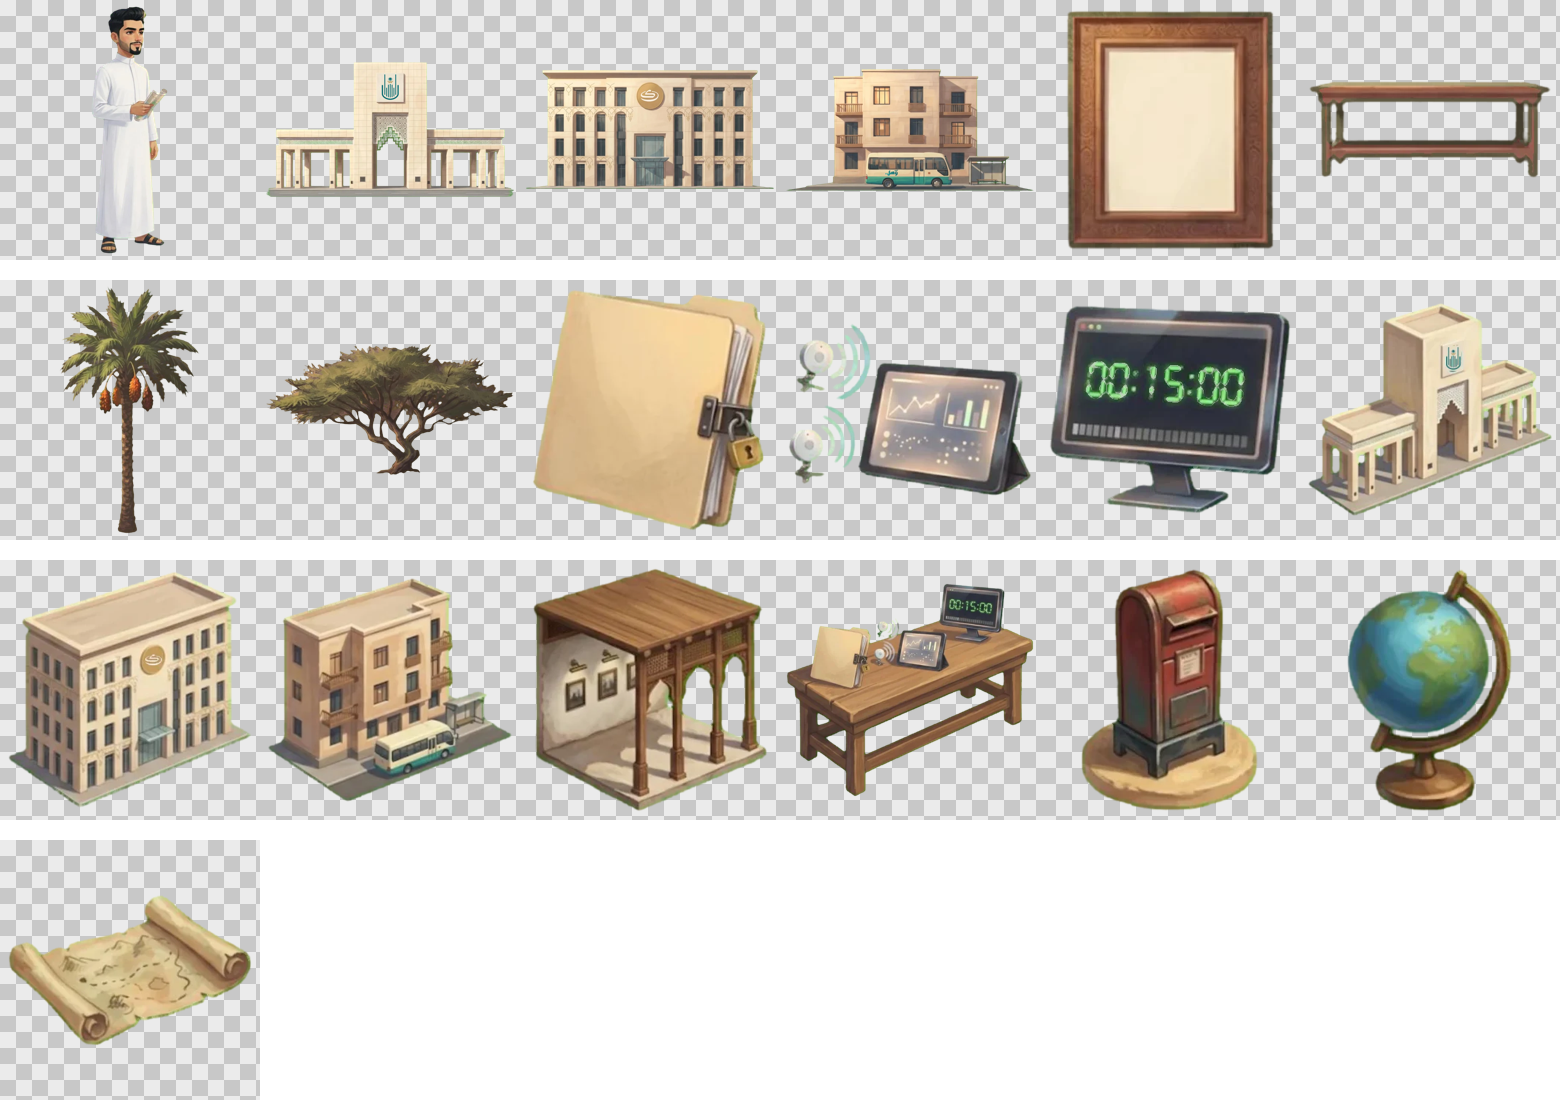
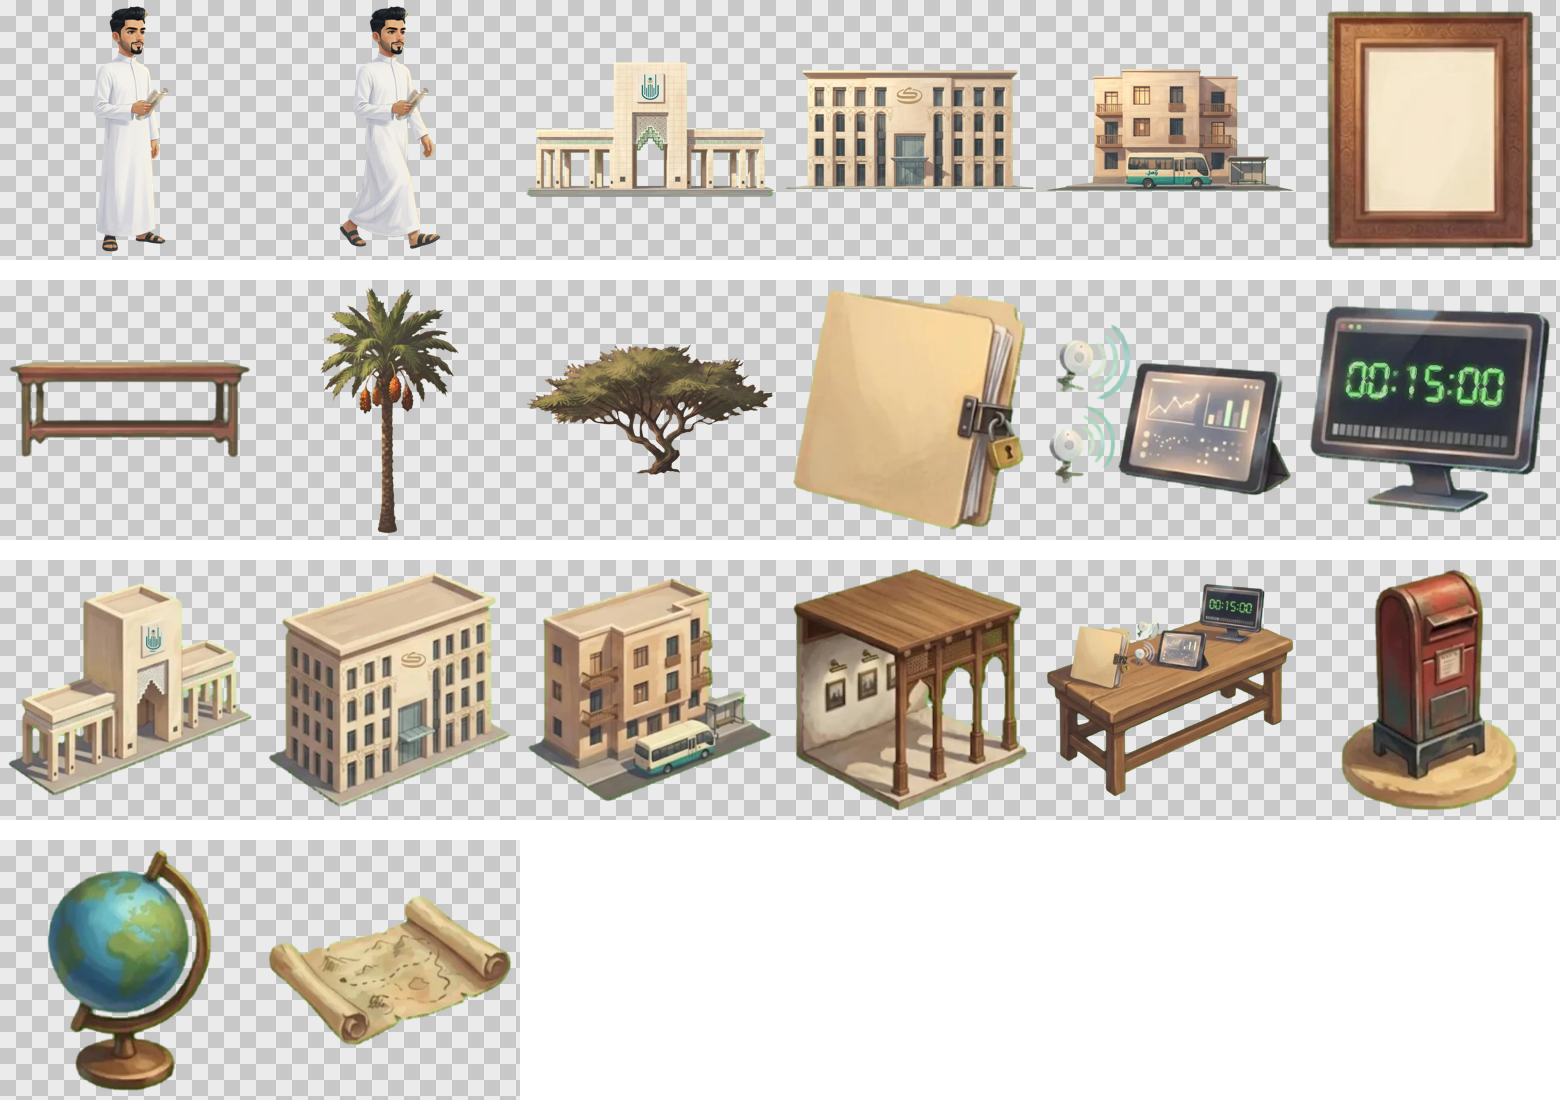
Arabic layout on the left, clearer fonts, smooth text transitions, natural walk

diff --git a/index.html b/index.html
@@ -23,11 +23,11 @@
 <link rel="icon" href="assets/ic_map.webp">
 <link rel="preconnect" href="https://fonts.googleapis.com">
 <link rel="preconnect" href="https://fonts.gstatic.com" crossorigin>
-<link href="https://fonts.googleapis.com/css2?family=Fraunces:ital,opsz,wght@0,9..144,500;0,9..144,800;1,9..144,500&family=IBM+Plex+Mono:wght@400;600&family=IBM+Plex+Sans+Arabic:wght@500;700&display=swap" rel="stylesheet">
+<link href="https://fonts.googleapis.com/css2?family=Fraunces:ital,opsz,wght@0,9..144,500;0,9..144,800;1,9..144,500&family=Inter:wght@400;500;600;700&family=Readex+Pro:wght@400;500;600;700&display=swap" rel="stylesheet">
 <style>
-:root{--ink:#22160b;--gold:#ffd98a;--paper:#f6ecd8;--accent:#c2416b;--serif:"Fraunces",Georgia,serif;--mono:"IBM Plex Mono",ui-monospace,monospace;--ar:"IBM Plex Sans Arabic",system-ui,sans-serif}
+:root{--ink:#22160b;--gold:#ffd98a;--paper:#f6ecd8;--accent:#c2416b;--serif:"Fraunces",Georgia,serif;--sans:"Inter",system-ui,-apple-system,"Segoe UI",sans-serif;--mono:var(--sans);--ar:"Readex Pro","Segoe UI",Tahoma,sans-serif}
 *{box-sizing:border-box;margin:0;padding:0}
-html,body{height:100%;overflow:hidden;background:#e9d7b0;color:var(--ink);font-family:var(--mono);-webkit-font-smoothing:antialiased}
+html,body{height:100%;overflow:hidden;background:#e9d7b0;color:var(--ink);font-family:var(--sans);-webkit-font-smoothing:antialiased}
 body.ar{font-family:var(--ar)}
 button{font:inherit;color:inherit;background:none;border:0;cursor:pointer}
 img{user-select:none;-webkit-user-drag:none}
@@ -59,43 +59,44 @@ body.ar .frame .t,body.ar .frame .s{font-family:var(--ar)}
 .tool .nm{position:absolute;left:50%;top:100%;transform:translate(-50%,8px);white-space:nowrap;font-size:12px;font-weight:600;color:#ffe7b5;background:rgba(30,20,10,.72);padding:3px 8px;border-radius:999px}
 
 #me{position:absolute;z-index:4;bottom:4%;left:0;transform-origin:50% 100%;will-change:transform,left;pointer-events:none}
-#me img{display:block;height:100%;transform-origin:50% 100%}
+#me img{position:absolute;left:0;bottom:0;display:block;height:100%;width:100%;transform-origin:50% 100%;transform:translateY(var(--bob,0)) rotate(var(--rot,0)) scaleX(var(--dir,1))}
 #shadow{position:absolute;left:50%;bottom:-2%;width:70%;height:6%;background:radial-gradient(ellipse,rgba(40,20,0,.38),transparent 70%);transform:translateX(-50%)}
 
 #hero{position:absolute;z-index:5;left:6vw;top:18vh;max-width:min(560px,60vw);pointer-events:none}
 #hero h1{font-family:var(--serif);font-weight:800;font-size:clamp(56px,11vw,150px);line-height:.85;letter-spacing:-.02em;color:#fffaf0;text-shadow:0 4px 30px rgba(80,50,10,.35)}
-#hero h1 .sur{display:block;font-family:var(--mono);font-weight:600;font-size:clamp(13px,1.5vw,18px);letter-spacing:.6em;margin-top:18px;color:var(--ink);text-shadow:0 0 10px rgba(255,250,236,.9)}
-body.ar #hero h1{font-family:var(--ar);letter-spacing:0}
-body.ar #hero h1 .sur{font-family:var(--ar);letter-spacing:.2em}
-#hero p{margin-top:16px;font-size:clamp(14px,1.4vw,18px);color:var(--ink);font-weight:600;text-shadow:0 0 12px rgba(255,250,236,.95),0 0 3px rgba(255,250,236,.9)}
-#hero p::before{content:"> ";color:var(--accent)}
-body.ar #hero{left:auto;right:6vw;text-align:right}
-body.ar #hero p::before{content:"< "}
+#hero h1 .sur{display:block;font-family:var(--sans);font-weight:700;font-size:clamp(13px,1.5vw,18px);letter-spacing:.55em;margin-top:18px;color:var(--ink);text-shadow:0 0 10px rgba(255,250,236,.9)}
+#hero p{margin-top:16px;font-family:var(--sans);font-size:clamp(15px,1.45vw,19px);line-height:1.5;color:var(--ink);font-weight:600;text-shadow:0 0 14px rgba(255,250,236,1),0 0 4px rgba(255,250,236,.95)}
+#hero p::before{content:"";display:inline-block;width:.5em;height:.5em;border-radius:50%;background:var(--accent);margin-inline-end:.55em;vertical-align:.08em}
+body.ar #hero{direction:rtl;text-align:right}
+body.ar #hero h1{font-family:var(--ar);font-weight:800;letter-spacing:0;line-height:1.05}
+body.ar #hero h1 .sur{font-family:var(--ar);letter-spacing:.12em}
+body.ar #hero p{font-family:var(--ar);font-weight:600;line-height:1.75}
 
-#head{position:absolute;z-index:5;left:6vw;top:12vh;max-width:min(680px,88vw);pointer-events:none;color:var(--ink)}
-#head .w{display:block;font-family:var(--serif);font-weight:500;font-size:clamp(34px,5.4vw,78px);line-height:1.02;letter-spacing:-.01em;opacity:0;transform:translateY(18px);animation:up .7s cubic-bezier(.2,.8,.2,1) forwards}
+#head{position:absolute;z-index:5;left:6vw;top:12vh;max-width:min(680px,88vw);pointer-events:none;color:var(--ink);transition:opacity .32s ease,filter .32s ease,transform .32s ease}
+#head .w{display:block;font-family:var(--serif);font-weight:500;font-size:clamp(34px,5.4vw,78px);line-height:1.04;letter-spacing:-.01em;opacity:0;animation:rise .8s cubic-bezier(.16,.84,.24,1) forwards}
 #head .w i,#head .w em{font-style:italic;color:var(--accent)}
 #head.sm{top:9vh}
 #head.sm .w{font-size:clamp(26px,3.4vw,50px)}
-#head .sub{font-family:var(--mono);font-size:clamp(13px,1.2vw,16px);margin-top:14px;opacity:0}
-body.ar #head .w{font-family:var(--ar);font-weight:700;letter-spacing:0;line-height:1.25}
+#head .sub{font-family:var(--sans);font-weight:500;font-size:clamp(14px,1.2vw,16px);margin-top:14px;opacity:0;animation:rise .7s cubic-bezier(.16,.84,.24,1) .45s forwards}
+body.ar #head{direction:rtl;text-align:right}
+body.ar #head .w{font-family:var(--ar);font-weight:700;letter-spacing:0;line-height:1.3}
 body.ar #head .w em{font-style:normal}
-body.ar #head.sm{top:9vh}
-#head.sm .w{font-size:clamp(26px,3.4vw,50px)}
-#head .sub{font-family:var(--ar)}
+body.ar #head .sub{font-family:var(--ar)}
 .icons{display:flex;flex-wrap:wrap;gap:10px;margin-top:26px;pointer-events:auto}
-.ic{display:inline-flex;align-items:center;gap:9px;padding:10px 16px;border-radius:999px;background:rgba(24,16,44,.55);border:1px solid rgba(255,217,138,.45);color:var(--gold);text-decoration:none;font-size:14px;opacity:0;animation:up .6s forwards;backdrop-filter:blur(4px)}
+.ic{display:inline-flex;align-items:center;gap:9px;padding:10px 16px;border-radius:999px;background:rgba(24,16,44,.55);border:1px solid rgba(255,217,138,.45);color:var(--gold);text-decoration:none;font-family:var(--sans);font-weight:600;font-size:14px;opacity:0;animation:rise .6s cubic-bezier(.16,.84,.24,1) forwards;backdrop-filter:blur(4px)}
+body.ar .ic{font-family:var(--ar)}
 .ic:hover{background:rgba(255,217,138,.2)}
 .ic svg{width:17px;height:17px;fill:currentColor}
 
-#cap{position:absolute;z-index:5;pointer-events:none;font-size:clamp(12.5px,1.15vw,15px);line-height:1.55}
-#cap .ln{opacity:0;animation:up .6s forwards}
-#cap .ln::before{content:"> ";color:var(--accent)}
-#cap .lh{font-weight:600;margin-bottom:6px;opacity:0;animation:up .6s forwards}
-body.ar #cap{direction:rtl}
-body.ar #cap .ln::before{content:"< "}
-#cap .by{opacity:0;animation:up .6s forwards;font-size:12px;letter-spacing:.08em}
-@keyframes up{to{opacity:1;transform:none}}
+#cap{position:absolute;z-index:5;pointer-events:none;font-family:var(--sans);font-weight:500;font-size:clamp(14px,1.2vw,16.5px);line-height:1.6;padding:12px 16px;border-radius:14px;background:var(--capbg,rgba(255,248,232,.72));-webkit-backdrop-filter:blur(6px);backdrop-filter:blur(6px);transition:opacity .32s ease,filter .32s ease,transform .32s ease,background .6s}
+#cap:empty{display:none}
+#cap .ln{opacity:0;animation:rise .6s cubic-bezier(.16,.84,.24,1) forwards;padding-inline-start:1.1em;position:relative}
+#cap .ln::before{content:"";position:absolute;inset-inline-start:0;top:.62em;width:.42em;height:.42em;border-radius:50%;background:var(--accent)}
+#cap .lh{font-weight:700;margin-bottom:6px;opacity:0;animation:rise .6s cubic-bezier(.16,.84,.24,1) forwards}
+body.ar #cap{direction:rtl;font-family:var(--ar);line-height:1.8}
+#cap .by{opacity:0;animation:rise .6s forwards;font-size:12.5px;letter-spacing:.04em}
+#head.out,#cap.out{opacity:0;filter:blur(6px);transform:translateY(-10px)}
+@keyframes rise{from{opacity:0;transform:translateY(16px);filter:blur(8px)}to{opacity:1;transform:none;filter:blur(0)}}
 
 #bar{position:absolute;z-index:8;left:16px;top:14px;display:flex;gap:6px}
 #bar button{display:flex;align-items:center;gap:6px;padding:6px 10px 6px 6px;border-radius:999px;font-weight:600;font-size:14px;color:#fffaf0;text-shadow:0 1px 6px rgba(0,0,0,.4);transition:transform .2s}
@@ -143,6 +144,7 @@ body.ar #card h3{font-family:var(--ar);padding-right:0;padding-left:40px}
 body.ar #card .x{right:auto;left:16px}
 body.ar #card{direction:rtl}
 
+@media (min-width:700px){#head .w{white-space:nowrap}}
 @media (max-width:699px){
   #hero{top:13vh;max-width:70vw}
   #head{top:9vh}
@@ -162,7 +164,7 @@ body.ar #card{direction:rtl}
   <div class="sky" id="sk2" style="opacity:0"></div>
   <div id="floor"></div>
   <div id="world"></div>
-  <div id="me"><div id="shadow"></div><img id="meimg" src="assets/me.webp" alt="Faris"></div>
+  <div id="me"><div id="shadow"></div><img id="meimg" src="assets/me.webp" alt="Faris"><img id="mewalk" src="assets/me_walk.webp" alt="" style="opacity:0"></div>
   <div id="hero"><h1 id="h1"></h1><p id="t1"></p><p id="t2"></p></div>
   <div id="head"></div>
   <div id="cap"></div>
@@ -263,7 +265,7 @@ var DATA={
 
 /* ============================================================ */
 var $=function(i){return document.getElementById(i)};
-var IMGS=["sky-day","sky-sunset","sky-night","floor","me","uqu","kidana","wasl","palm","acacia","wall","frame","table","p_securefile","p_washroom","p_meeting","map","m_uqu","m_kidana","m_wasl","m_gallery","m_bench","m_mail","ic_globe","ic_map"];
+var IMGS=["me_walk","sky-day","sky-sunset","sky-night","floor","me","uqu","kidana","wasl","palm","acacia","wall","frame","table","p_securefile","p_washroom","p_meeting","map","m_uqu","m_kidana","m_wasl","m_gallery","m_bench","m_mail","ic_globe","ic_map"];
 var R={};
 var lang="en";try{lang=localStorage.getItem("fa_lang")||"en"}catch(e){}
 var hm=(location.hash||"").match(/lang=(en|ar)/);if(hm)lang=hm[1];
@@ -274,7 +276,7 @@ var ICON={
  code:'<svg viewBox="0 0 24 24"><path d="M8.7 16.3 4.4 12l4.3-4.3-1.4-1.4L1.6 12l5.7 5.7 1.4-1.4zm6.6 0 4.3-4.3-4.3-4.3 1.4-1.4 5.7 5.7-5.7 5.7-1.4-1.4z"/></svg>'
 };
 
-var stage=$("stage"),world=$("world"),me=$("me"),meimg=$("meimg");
+var stage=$("stage"),world=$("world"),me=$("me"),meimg=$("meimg"),mewalk=$("mewalk"),lastPos=0,walkP=0,idleT=0;
 var W,H,mob,gx,gh,heroX,heroK,pos=0,target=0,lastT=0,els=[],maxP=1,cur="",nightV=-1,toolEls=[],frameEls=[];
 var STOPS=DATA.stops;
 
@@ -364,25 +366,34 @@ function blend(p){
 }
 function zoneAt(p){var best=null,bd=1e9;STOPS.forEach(function(s){var d=Math.abs(p-s.p);if(d<s.r&&d<bd){bd=d;best=s}});return best}
 
+var txTimer=0,txHas=false;
 function setText(z,pg){
   var key=z?z.id+lang+pg:"none"+lang;if(key===cur)return;cur=key;
+  var h=$("head"),c=$("cap");
+  clearTimeout(txTimer);
+  if(txHas){h.classList.add("out");c.classList.add("out");txTimer=setTimeout(function(){fillZone(z,pg)},300)}
+  else fillZone(z,pg);
+}
+function fillZone(z,pg){
   var h=$("head"),c=$("cap");h.innerHTML="";c.innerHTML="";
+  h.classList.remove("out");c.classList.remove("out");
   h.classList.toggle("sm",!!(z&&(z.type=="wall"||z.type=="bench")));
+  txHas=!!z;
   if(!z)return;
   var T=DATA.ui[lang];
-  ((pg&&z.hl2)?z.hl2:z.hl)[lang].forEach(function(t,i){var s=mk("span","w",h);s.style.animationDelay=(i*.15)+"s";s.innerHTML=t});
-  if(z.sub){var sb=mk("div","sub",h);sb.textContent=z.sub[lang];sb.style.animation="up .6s .45s forwards"}
+  ((pg&&z.hl2)?z.hl2:z.hl)[lang].forEach(function(t,i){var s=mk("span","w",h);s.style.animationDelay=(i*.12)+"s";s.innerHTML=t});
+  if(z.sub){var sb=mk("div","sub",h);sb.textContent=z.sub[lang]}
   if(z.type=="end"){
     var C=DATA.contact,ic=mk("div","icons",h);
     [["mailto:"+C.email,ICON.mail,T.email],["tel:"+C.phone,ICON.phone,C.phoneLabel],[C.linkedin,ICON.li,"LinkedIn"],[C.github,ICON.code,"GitHub"]].forEach(function(a,k){
       var e=mk("a","ic",ic);e.href=a[0];if(a[0].indexOf("http")==0){e.target="_blank";e.rel="noopener"}
-      e.style.animationDelay=(.6+k*.12)+"s";e.innerHTML=a[1]+"<span></span>";e.lastChild.textContent=a[2];if(a[2]==C.phoneLabel)e.lastChild.dir="ltr";
+      e.style.animationDelay=(.5+k*.1)+"s";e.innerHTML=a[1]+"<span></span>";e.lastChild.textContent=a[2];if(a[2]==C.phoneLabel)e.lastChild.dir="ltr";
     });
-    var by=mk("div","by",c);by.textContent=T.by;by.style.animationDelay="1.1s";
+    var by=mk("div","by",c);by.textContent=T.by;by.style.animationDelay="1s";
   }else{
-    if(z.lnh){var lh=mk("div","lh",c);lh.textContent=z.lnh[lang];lh.style.animationDelay=".4s"}
+    if(z.lnh){var lh=mk("div","lh",c);lh.textContent=z.lnh[lang];lh.style.animationDelay=".35s"}
     var L=z.ln[lang][Math.min(pg,z.ln[lang].length-1)]||[];
-    L.forEach(function(t,i){var d=mk("div","ln",c);d.style.animationDelay=(.5+i*.18)+"s";d.textContent=t});
+    L.forEach(function(t,i){var d=mk("div","ln",c);d.style.animationDelay=(.4+i*.14)+"s";d.textContent=t});
   }
   layoutCap(z);
 }
@@ -390,7 +401,7 @@ function layoutCap(z){
   var c=$("cap").style,h=$("head");c.left=c.right=c.top=c.bottom="";c.maxWidth="";c.textAlign="";
   var ar=lang=="ar";
   if(!z)return;
-  if(z.type=="end"){c.left=ar?"":"6vw";c.right=ar?"6vw":"";c.bottom="3vh";return}
+  if(z.type=="end"){c.left="6vw";c.bottom="3vh";return}
   if(mob||z.type=="wall"){
     c.left="6vw";c.right="6vw";c.top=(h.offsetTop+h.offsetHeight+14)+"px";return;
   }
@@ -414,10 +425,11 @@ function update(t){
   var n=b.A.night*(1-b.t)+b.B.night*b.t;
   if(Math.abs(n-nightV)>.01){nightV=n;
     els.forEach(function(it){if(it.dim)it.dim.style.opacity=.42*n;if(it.lit)it.lit.style.opacity=.55*n});
-    meimg.style.filter="brightness("+(1-.18*n)+")";
+    meimg.style.filter=mewalk.style.filter="brightness("+(1-.18*n)+")";
     var ink=mix("#22160b","#ffd98a",ease((n-.3)/.5));$("head").style.color=ink;$("cap").style.color=ink;$("hint").style.color=ink;
     var glow=n>.5?"0 0 18px rgba(255,180,80,.45), 0 1px 3px rgba(0,0,0,.6)":"0 0 14px rgba(255,248,230,.95), 0 0 4px rgba(255,248,230,.9)";
-    $("cap").style.textShadow=glow;$("head").style.textShadow=n>.5?"0 0 26px rgba(255,180,80,.4)":"0 0 18px rgba(255,250,235,.8)";
+    $("cap").style.textShadow=n>.5?"none":"0 0 8px rgba(255,250,236,.6)";
+    $("cap").style.setProperty("--capbg",n>.5?"rgba(18,14,38,.58)":"rgba(255,248,232,.74)");$("head").style.textShadow=n>.5?"0 0 26px rgba(255,180,80,.4)":"0 0 18px rgba(255,250,235,.8)";
   }
   // intro → walk → end
   var e=ease(pos/(W*.7));
@@ -429,14 +441,20 @@ function update(t){
   var eE=ease((pos-(maxP-W*.6))/(W*.55));
   var inside=STOPS.filter(function(s){return s.type=="wall"||s.type=="bench"}),ins=0;
   if(inside.length){var a=inside[0],bb=inside[inside.length-1];ins=ease((pos-(a.p-W*.45))/(W*.35))*ease((bb.p+W*.5-pos)/(W*.35))}
-  var hx=lang=="ar"?W*(mob?.3:.28):heroX,gxB=hx+(gx-hx)*e,endX=mob?W*.74:W*.68,x=gxB+(endX-gxB)*eE;
+  var hx=heroX,gxB=hx+(gx-hx)*e,endX=mob?W*.74:W*.68,x=gxB+(endX-gxB)*eE;
   var k=(heroK+(1-heroK)*e)*(1+.22*eE)*(1-.08*ins);
   me.style.left=x+"px";
-  var ph=t/1000*(moving?11:1.6),by=moving?-Math.abs(Math.sin(ph))*gh*.022:Math.sin(ph)*gh*.003,rot=moving?Math.sin(ph)*1.5:0;
+  // natural two-frame walk, driven by distance travelled so the feet don't slide
+  var stepLen=gh*.34*k,moved=Math.abs(pos-lastPos);lastPos=pos;
+  if(moving){walkP+=moved/stepLen;idleT=0}else{idleT+=dt}
+  var fr=walkP%1,striding=moving&&fr<.5,by,rot;
+  if(moving){by=-gh*.012*(.5-.5*Math.cos(2*Math.PI*fr));rot=.8}
+  else{by=Math.sin(t/1000*1.6)*gh*.002;rot=0;walkP=0}
+  meimg.style.opacity=striding?0:1;mewalk.style.opacity=striding?1:0;
   var dir=target<pos-.5?-1:1;if(!moving)dir=+(me.dataset.dir||1);me.dataset.dir=dir;
-  meimg.style.transform="translateY("+by+"px) rotate("+rot+"deg) scaleX("+dir+")";
+  me.style.setProperty("--bob",by+"px");me.style.setProperty("--rot",(rot*dir)+"deg");me.style.setProperty("--dir",dir);
   me.style.transform="translateX(-50%) scale("+k+")";
-  $("shadow").style.transform="translateX(-50%) scaleX("+(1-(moving?Math.abs(Math.sin(ph))*.12:0))+")";
+  $("shadow").style.transform="translateX(-50%) scaleX("+(striding?1.08:1)+")";
   $("hint").style.opacity=pos>60?0:.85;
 }
 

diff --git a/tools/process_assets.py b/tools/process_assets.py
@@ -26,7 +26,7 @@ def keyness(a, key):
     return np.minimum(r, b) - g  # magenta
 
 
-def chroma(img, key, fill=False, fill_max=0.0015):
+def chroma(img, key, fill=False, fill_max=0.0015, nogreen=False):
     """Key out a flat green/magenta background.
 
     Matte from 'key-ness', then every edge pixel takes the colour of the
@@ -75,7 +75,7 @@ def chroma(img, key, fill=False, fill_max=0.0015):
     # light global despill for any key tint that is left inside
     r, g, b = F[..., 0], F[..., 1], F[..., 2]
     if key == "green":
-        F[..., 1] = np.minimum(g, np.maximum(r, b) + 40)
+        F[..., 1] = np.minimum(g, np.maximum(r, b) + (0 if nogreen else 40))
     elif key == "blue":
         near = ndimage.binary_dilation(alpha < 0.9, iterations=4) | (b > g)
         F[..., 2] = np.where(near, np.minimum(b, g * 0.7), np.minimum(b, np.maximum(r, g) + 20))
@@ -155,7 +155,7 @@ def save(im, name, q=84, maxside=None):
 
 
 def kidana_logo(b):
-    """Find the blank gold plaque and stamp the real KIDANA icon on it."""
+    """Remove the blank gold plaque and paint the real KIDANA icon straight on the facade."""
     if not LOGO or not LOGO.exists():
         return b
     a = np.asarray(b).astype(np.float32)
@@ -167,30 +167,33 @@ def kidana_logo(b):
         print("  ! plaque not found")
         return b
     sizes = ndimage.sum(gold, lab, range(1, n + 1))
-    sl = ndimage.find_objects(lab)[int(np.argmax(sizes))]
+    k = int(np.argmax(sizes))
+    sl = ndimage.find_objects(lab)[k]
     y0, y1, x0, x1 = sl[0].start, sl[0].stop, sl[1].start, sl[1].stop
     cx, cy = (x0 + x1) / 2, (y0 + y1) / 2
     d = min(x1 - x0, y1 - y0)
+    # disc + its rim and cast shadow
+    disc = ndimage.binary_fill_holes(lab == k + 1)
+    grow = max(3, int(d * .07))
+    cover = ndimage.binary_dilation(disc, iterations=grow)
+    sh = np.roll(np.roll(cover, int(d * .05), 0), int(d * .05), 1)
+    cover = cover | sh
+    import cv2
+    rgb = a[..., :3].clip(0, 255).astype(np.uint8)
+    mask = (cover & (al > 0)).astype(np.uint8) * 255
+    filled = cv2.inpaint(rgb, mask, max(6, int(d * .12)), cv2.INPAINT_TELEA)
+    filled = cv2.GaussianBlur(filled, (0, 0), 1.2)
+    rgb2 = np.where(mask[..., None] > 0, filled, rgb).astype(np.float32)
+    rgb2 += np.where(mask[..., None] > 0, np.random.default_rng(2).normal(0, 1.8, rgb2.shape), 0)
+    out = Image.fromarray(np.dstack([rgb2.clip(0, 255), al]).astype(np.uint8), "RGBA")
     logo = Image.open(LOGO).convert("RGBA")
-    la = np.asarray(logo)[..., 3]
-    cols = np.where(la.max(0) > 0)[0]
-    icon = logo.crop((2560, 0, logo.width, logo.height))
-    icon = trim(icon, 0)
-    # recolour to warm white
-    ia = np.asarray(icon).copy()
-    ia[..., 0], ia[..., 1], ia[..., 2] = 255, 248, 236
-    icon = Image.fromarray(ia, "RGBA")
-    w = int(d * 0.66)
+    icon = trim(logo.crop((2560, 0, logo.width, logo.height)), 0)
+    w = int(d * 0.95)
     h = int(icon.height * w / icon.width)
-    icon = icon.resize((w, h), Image.LANCZOS).filter(ImageFilter.GaussianBlur(0.6))
-    # slight transparency so it reads painted-on
-    ia = np.asarray(icon).copy(); ia[..., 3] = (ia[..., 3] * 0.92).astype(np.uint8)
-    icon = Image.fromarray(ia, "RGBA")
-    out = b.copy()
+    icon = icon.resize((w, h), Image.LANCZOS).filter(ImageFilter.GaussianBlur(0.5))
     out.alpha_composite(icon, (int(cx - w / 2), int(cy - h / 2)))
-    print(f"  logo stamped on plaque at ({cx:.0f},{cy:.0f}) d={d}")
+    print(f"  plaque removed, logo painted at ({cx:.0f},{cy:.0f}) d={d}")
     return out
-
 
 def uqu_logo(b, label):
     """Replace the painted emblem on the gate's plaque with the real UQU icon."""
@@ -297,7 +300,25 @@ fl = tile_floor(Image.open(RAW / "floor.png"))
 rec("floor", save(fl, "floor", 80))
 
 # single cut-outs
-rec("me", save(keep_largest(chroma(Image.open(RAW / "character2.png"), "green")), "me", 88))
+def head_anchor(im):
+    al = np.asarray(im)[..., 3] > 128
+    ys, xs = np.where(al)
+    top = ys.min(); h = ys.max() - top
+    band = al[top:top + int(h * .16)]
+    hx = np.where(band)[1].mean()
+    return top, hx, ys.max()
+
+stand = keep_largest(chroma(Image.open(RAW / "me_stand.png"), "green", nogreen=True))
+walk = keep_largest(chroma(Image.open(RAW / "me_walk.png"), "green", nogreen=True))
+(st, sx, sb), (wt, wx, wb) = head_anchor(stand), head_anchor(walk)
+# same head position in both frames; shared canvas wide enough for the stride
+left = max(sx, wx) + 20
+right = max(stand.width - sx, walk.width - wx) + 20
+H = max(stand.height, walk.height) + 10
+for im, hx, name in [(stand, sx, "me"), (walk, wx, "me_walk")]:
+    c = Image.new("RGBA", (int(left + right), H), (0, 0, 0, 0))
+    c.alpha_composite(im, (int(left - hx), 0))
+    rec(name, save(c, name, 88))
 rec("uqu", save(uqu_logo(keep_largest(chroma(Image.open(RAW / "uqu.png"), "green")), "uqu"), "uqu", 86))
 kb = keep_largest(chroma(Image.open(RAW / "kidana.png"), "green"))
 rec("kidana", save(kidana_logo(kb), "kidana", 86))
